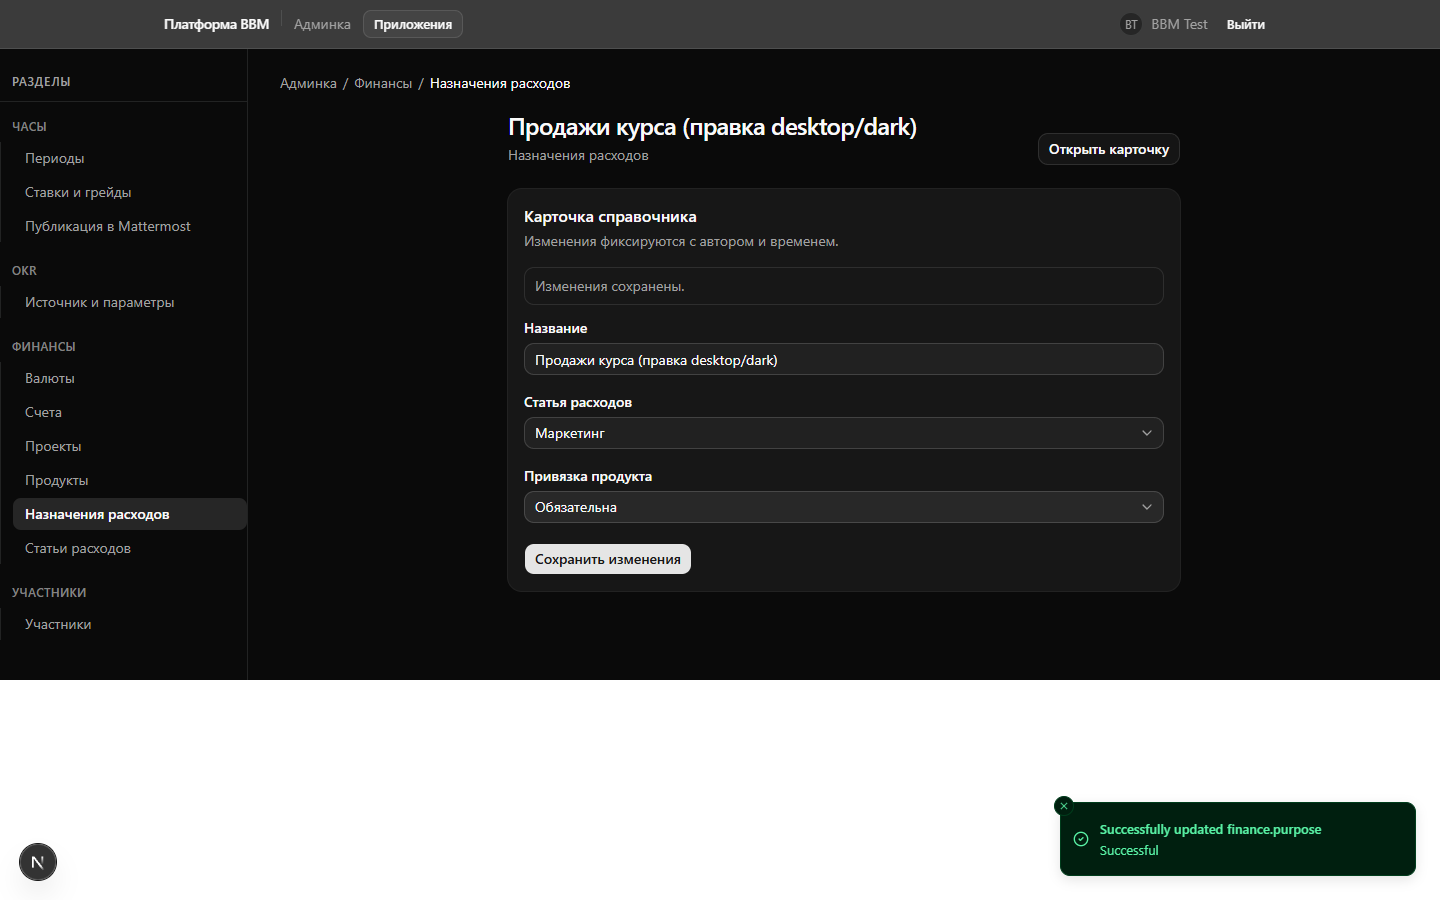
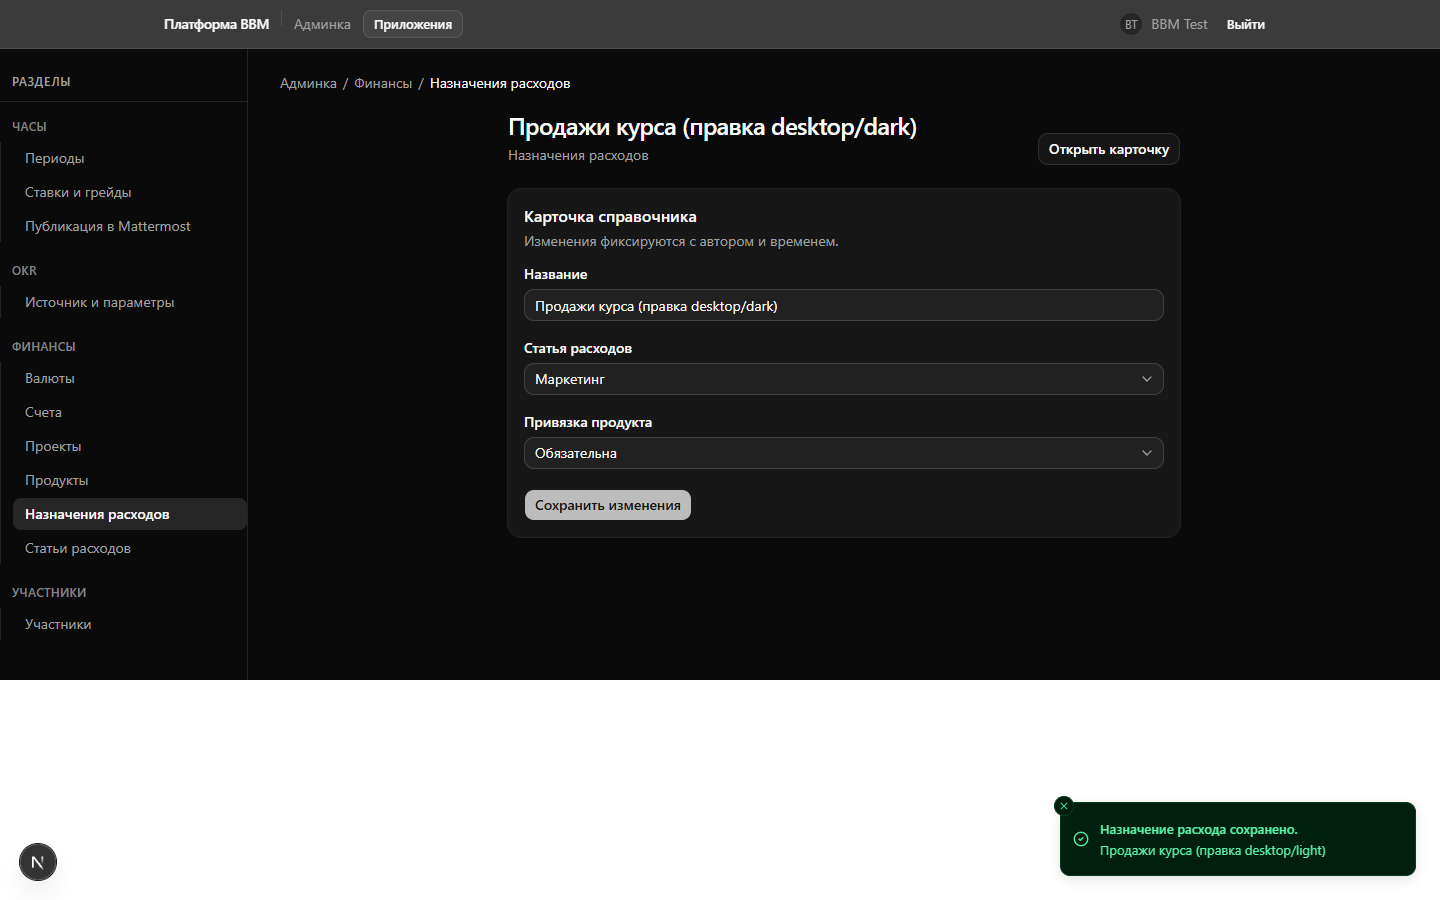
docs(evidence): #479 re-take the saved-card frames at wave head a3ca818e
The UX-sanity fix round replaced the reference cabinet's feedback, so the four
04-admin-purposes-edit-saved frames are re-taken in place: the notification is
Russian product copy naming the saved row, and the inline grey «Изменения
сохранены.» box is gone. No other frame changed — the rest of the folder is
list screens, the pre-save card and the bare 403. The README records the five
sibling tables driven for the same channel and one anomaly: the notification
names the row as it was before the save.

Claude-Session: https://claude.ai/code/session_0135iGP5tT2kkPaiEPUVqe6e

Changed region(s): [[0.3438, 0.28, 0.5625, 0.6533], [0.75, 0.9022, 0.9375, 0.9644]]

diff --git a/docs/evidence/479/README.md b/docs/evidence/479/README.md
@@ -25,7 +25,7 @@ three CDP-forced pseudo-states (`CSS.forcePseudoState`, one session per state).
 | 01   | `/p/admin` as `bbm-test` — the index and the sidebar list only the sections this viewer may enter (Часы, OKR, Финансы, Участники) |
 | 02   | `/p/admin/finance/purposes` as `bbm-test` — the reference register with its per-row «Открыть / Изменить / В архив / Удалить»      |
 | 03   | the edit card of «Продажи курса», open — name, expense category, product binding, «Изменения фиксируются с автором и временем»    |
-| 04   | the SAME card after a real save — the name carries the edit, «Изменения сохранены.» stands in the card, and the toast confirms    |
+| 04   | the SAME card after a real save — the name carries the edit and the Russian save notification names the row (re-taken at `a3ca818e`, see below) |
 | 05   | `/p/admin` as `bbm-member` — refused                                                                                              |
 | 06   | `/p/admin/finance/purposes` as `bbm-member` — refused the same way, however the URL is reached                                    |
 | 07   | «Добавить назначение», the register's primary control, under CDP-FORCED `:hover`, `:focus-visible` and `:active` plus its base    |
@@ -66,3 +66,56 @@ artefacts, both re-observed live rather than inferred:
 - **The name edited in step 04 was restored** to «Продажи курса» at the end of
   the pass; the frames keep the edited value because that IS the state being
   accepted.
+
+## Re-take of 2026-09-17 — the saved state, at head `a3ca818e`
+
+The UX-sanity fix round of this PR (`5139e949` RED, `f865e40f` GREEN) replaced
+the reference cabinet's feedback: Refine's untranslated default toast
+(«Successfully updated finance.purpose / Successful») is gone, one Russian
+notification channel serves all six finance reference tables, and the inline
+grey, input-shaped «Изменения сохранены.» box is removed from the card.
+
+**Re-taken IN PLACE** (same filenames, no `-v2`) — only the four frames whose
+picture the round changed:
+
+- `04-admin-purposes-edit-saved-desktop-light.png`
+- `04-admin-purposes-edit-saved-desktop-dark.png`
+- `04-admin-purposes-edit-saved-mobile-light.png`
+- `04-admin-purposes-edit-saved-mobile-dark.png`
+
+Nothing else was re-taken, and the folder was checked for the stale box before
+deciding: steps 01, 02 and 07 are list/index screens that no save has touched,
+step 03 is the card BEFORE the save (it never carried the box), steps 05 and 06
+are the bare 403. The card's own primary control «Сохранить изменения» keeps its
+kit treatment — no control gained or lost a variant — so no pseudo-state frame
+changed either.
+
+**Confirmed on sight in all four frames:** the notification reads Russian product
+copy and names the row it saved — «Назначение расхода сохранено.» over «Продажи
+курса» — no grey input-shaped notice remains between «Изменения фиксируются с
+автором и временем.» and «Название», and the rest of the card (name, expense
+category, product binding, the CTA) is unchanged.
+
+**The other five tables were driven the same way** in the same session, to check
+the round really is one channel and not one screen — each edited and restored:
+
+| Table                | Notification                                          |
+| -------------------- | ----------------------------------------------------- |
+| Счета                | «Счёт сохранён. / Основной банк»                      |
+| Проекты              | «Проект сохранён. / Фонд BBM»                         |
+| Продукты             | «Продукт сохранён. / Курс «Основы нутрициологии»»     |
+| Валюты               | «Валюта сохранена. / Российский рубль»                |
+| Статьи расходов      | «Статья расходов сохранена. / Маркетинг»              |
+
+**One anomaly, reported rather than kept quiet.** The notification's second line
+names the row as it was BEFORE the save, not as it was saved: the
+`mobile-dark` frame's field reads «Продажи курса (правка mobile/dark)» while the
+toast under it says «Продажи курса (правка mobile/light)», the value the previous
+combo left. It is only visible when the edit RENAMES the row, which is what this
+journey does to prove the write; a real edit of a category or a binding shows the
+right name. Not a regression of this round — the round is what gave the toast a
+name to print at all.
+
+**Rows restored.** Every name edited for this re-take was written back: «Продажи
+курса», «Основной банк», «Фонд BBM», «Курс «Основы нутрициологии»», «Российский
+рубль», «Маркетинг».
